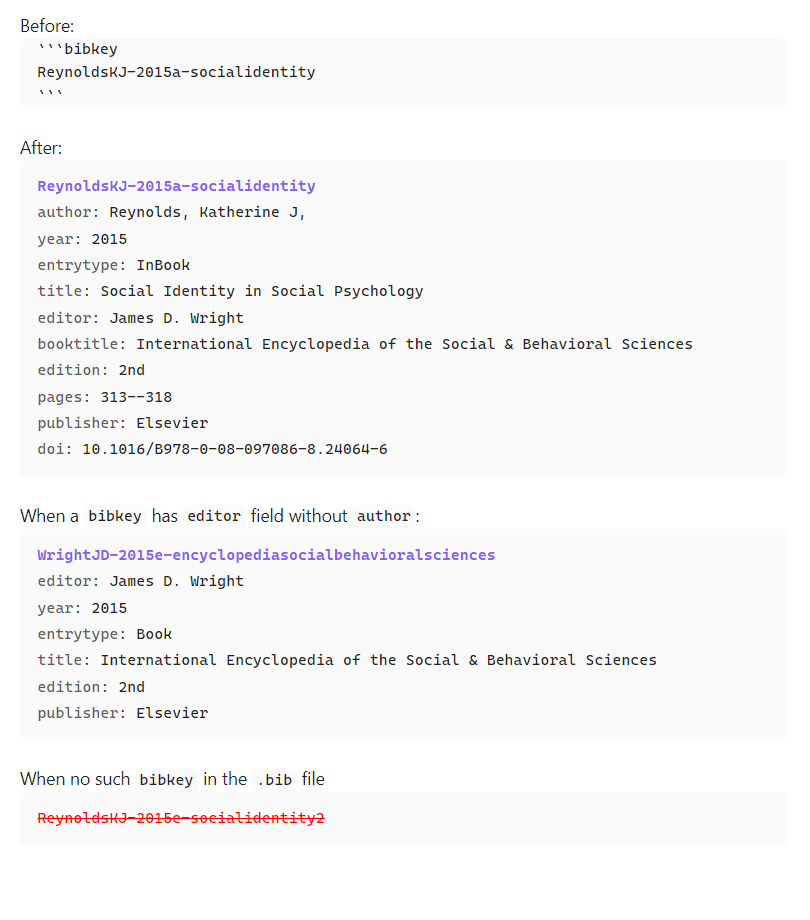
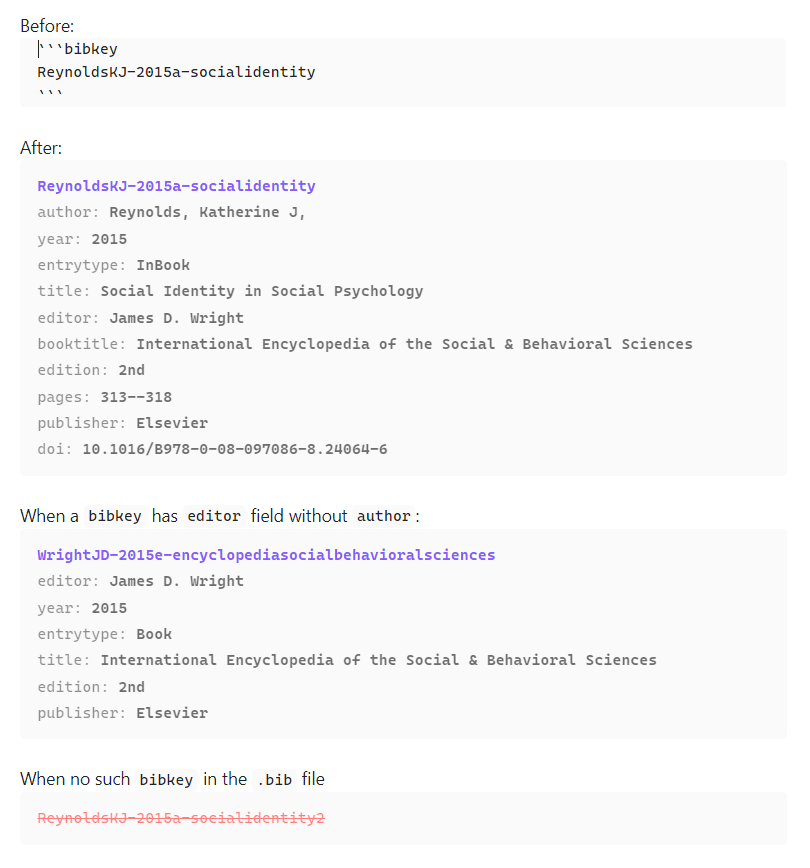
update README.md

Changed region(s): [[0.0309, 0.1555, 0.8642, 0.9021], [0.0309, 0.0, 0.4012, 0.0933], [0.0309, 0.9332, 0.4012, 0.9643]]

diff --git a/main.ts b/main.ts
@@ -17,7 +17,7 @@ const DEFAULT_SETTINGS: BibtexEntryViewSettings = {
     bibFilePath: '',
     enableRendering: true,
     fieldSortOrder: [
-        'author', 'year', 'entrytype', 'title', 'subtitle', 'editor',
+        'author', 'year', 'title', 'subtitle', 'editor',
         'booktitle', 'booksubtitle', 'edition', 'journal', 'series', 'volume', 
         'number', 'pages', 'address', 'publisher'
     ],
@@ -104,8 +104,8 @@ export default class BibtexEntryViewPlugin extends Plugin {
                         parsedEntry.fields.forEach((field) => {
                             entryCode.appendText('\n');
                             entryCode.createEl('span', { text: field.fieldName, cls: 'bibtex-field-name' });
-                            entryCode.appendText(': ');
-                            entryCode.createEl('span',{ text: field.fieldValue, cls: 'bibtex-field-value' } )
+                            entryCode.createEl('span', { text: ': ', cls: 'bibtex-field-name' });
+                            entryCode.createEl('span', { text: field.fieldValue, cls: 'bibtex-field-value' } )
                         });
                     }
                 } else {
@@ -143,10 +143,15 @@ export default class BibtexEntryViewPlugin extends Plugin {
                 font-weight: bold;
             }
             .bibtex-field-name, .bibtex-entrytype {
-                color: var(--text-muted);
+                opacity: 50%;
+            }
+            .bibtex-field-value {
+                font-weight: bold;
+                opacity: 65%;
             }
             .bibkey-invalid-key {
                 color: red;
+                opacity: 50%;
                 text-decoration: line-through;
             }
         `;
@@ -420,7 +425,7 @@ class BibtexEntryViewSettingTab extends PluginSettingTab {
                         // Parse the text area content into an array
                         const newOrder = value.split('\n').map(field => field.trim()).filter(field => field.length > 0);
                         this.plugin.settings.fieldSortOrder = newOrder;
-                        //await this.plugin.saveSettings();
+                        // comment out: await this.plugin.saveSettings();
                     });
                 text.inputEl.rows = 10;
                 text.inputEl.cols = 30;
@@ -436,7 +441,7 @@ class BibtexEntryViewSettingTab extends PluginSettingTab {
                     .onChange(async (value) => {
                         const newFieldsToRemove = value.split('\n').map(field => field.trim()).filter(field => field.length > 0);
                         this.plugin.settings.fieldsToRemove = newFieldsToRemove;
-                        //await this.plugin.saveSettings();
+                        // comment out: await this.plugin.saveSettings();
                     });
                 text.inputEl.rows = 6;
                 text.inputEl.cols = 30;
